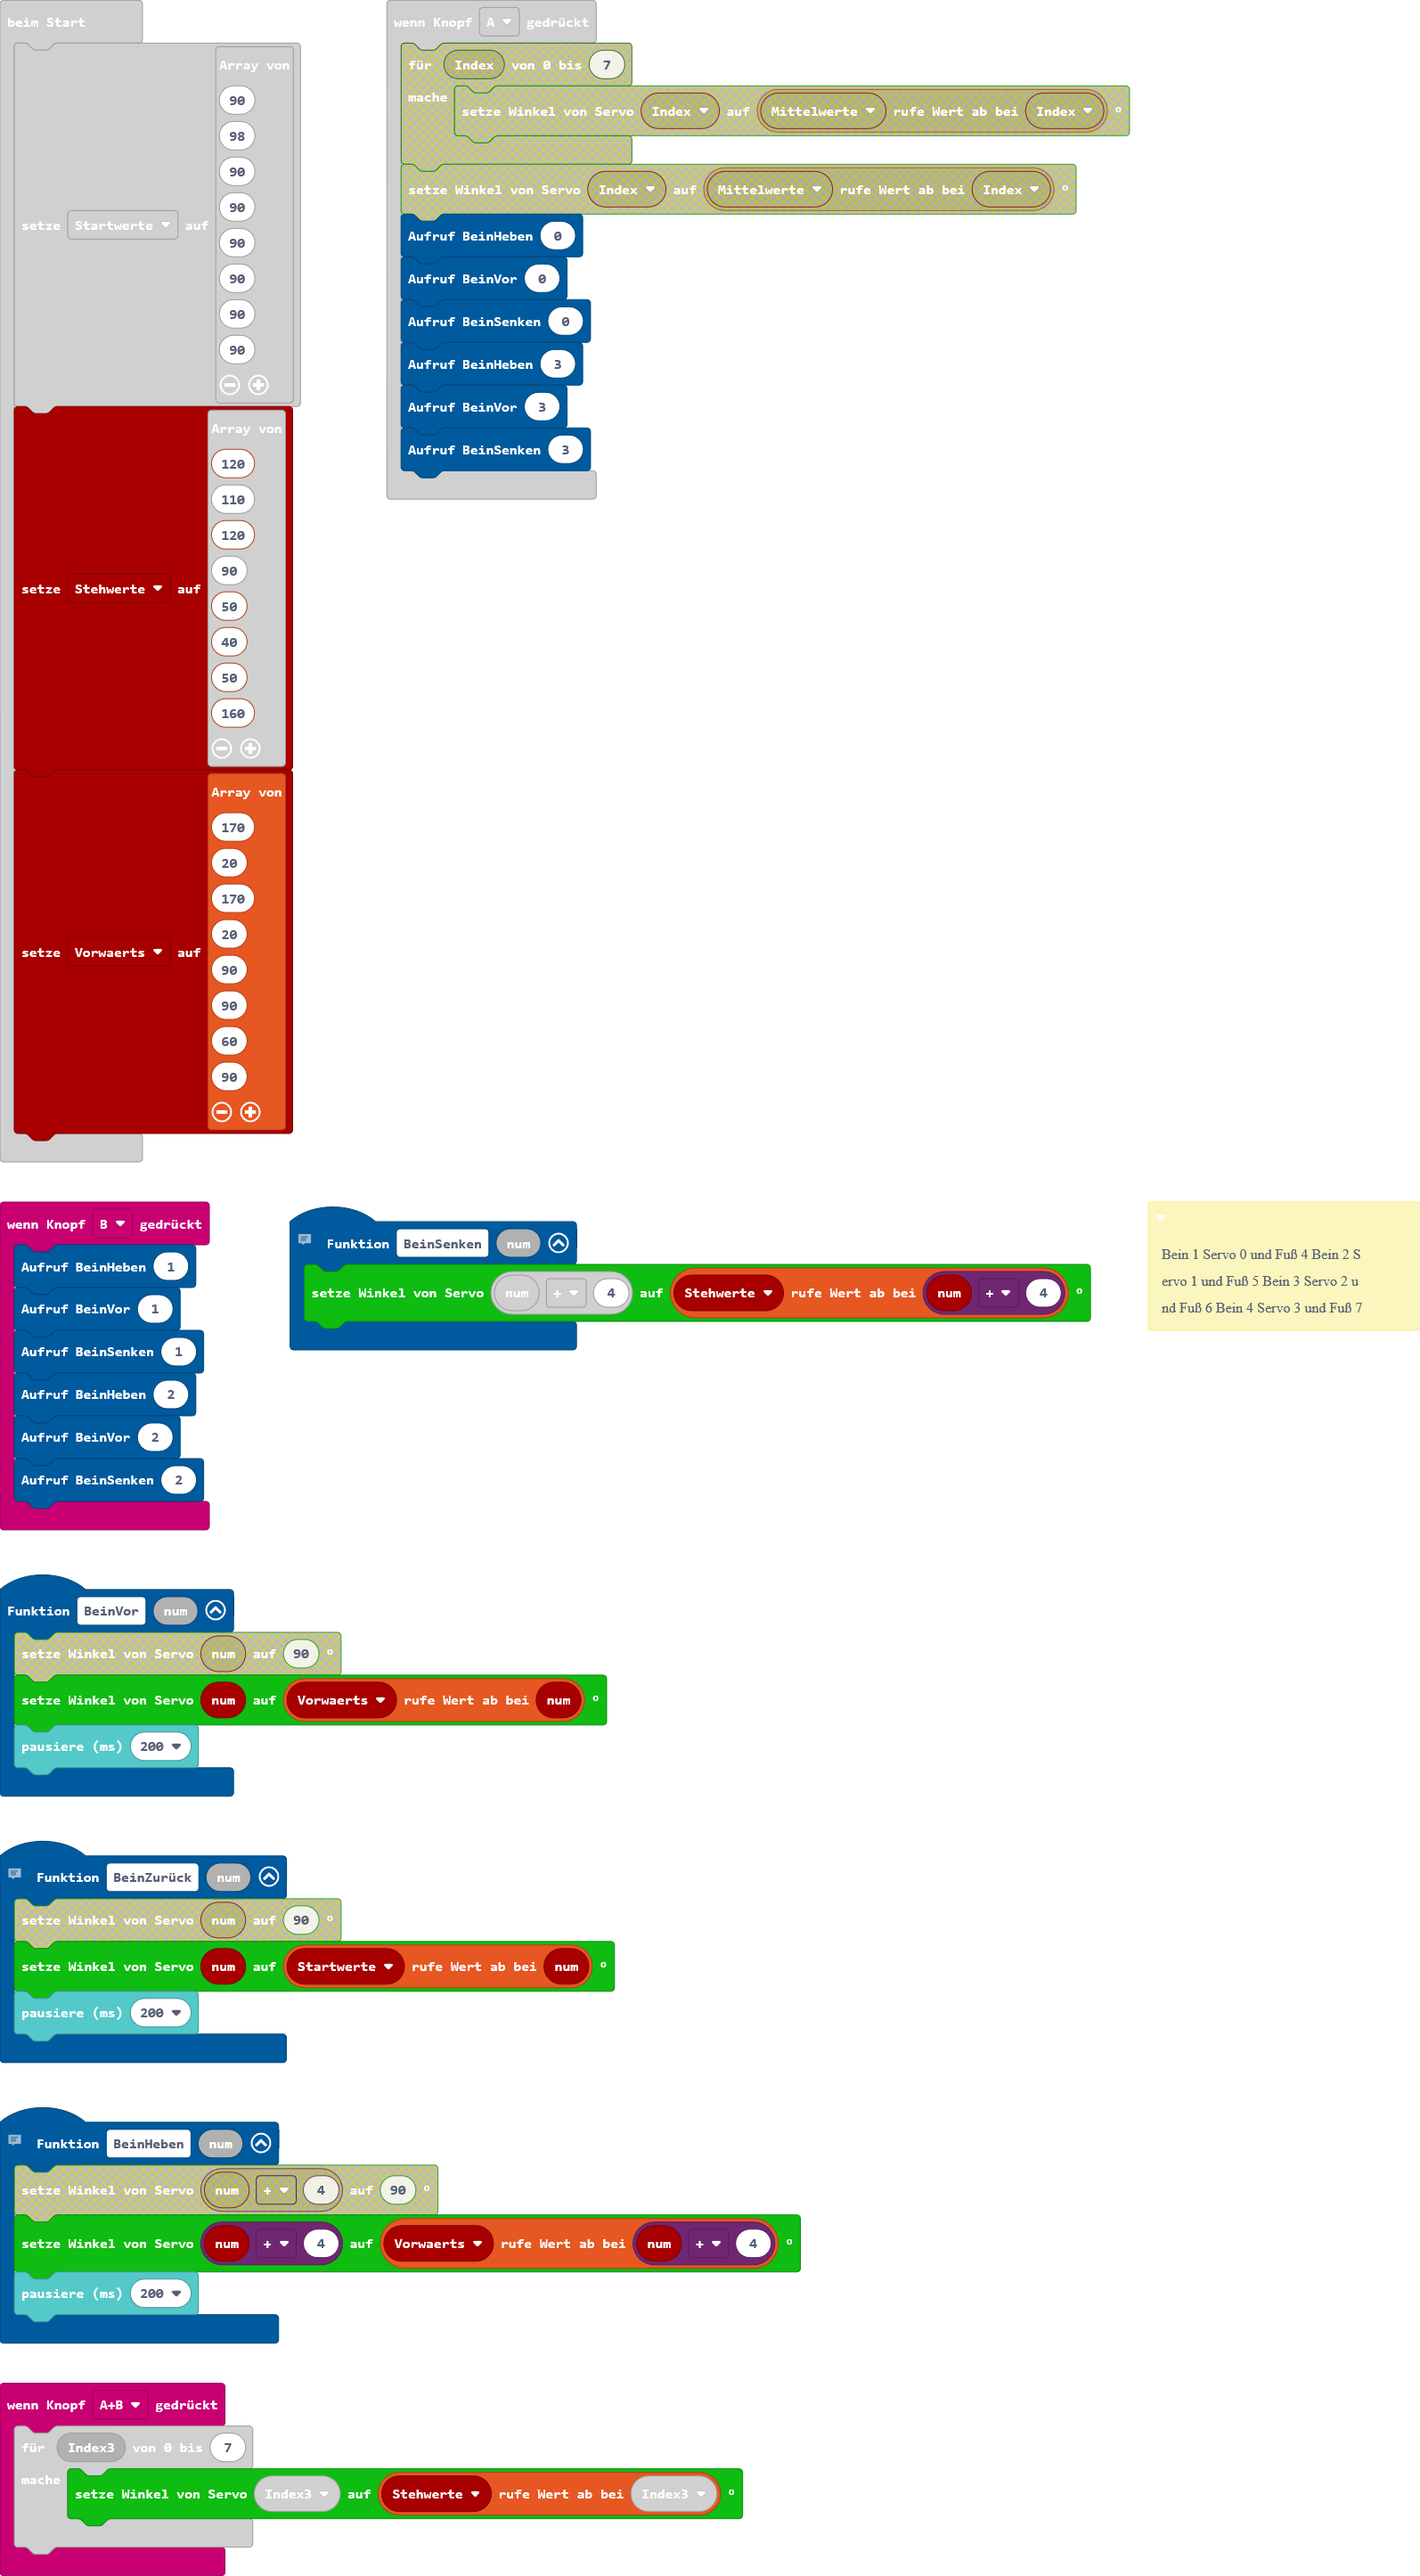
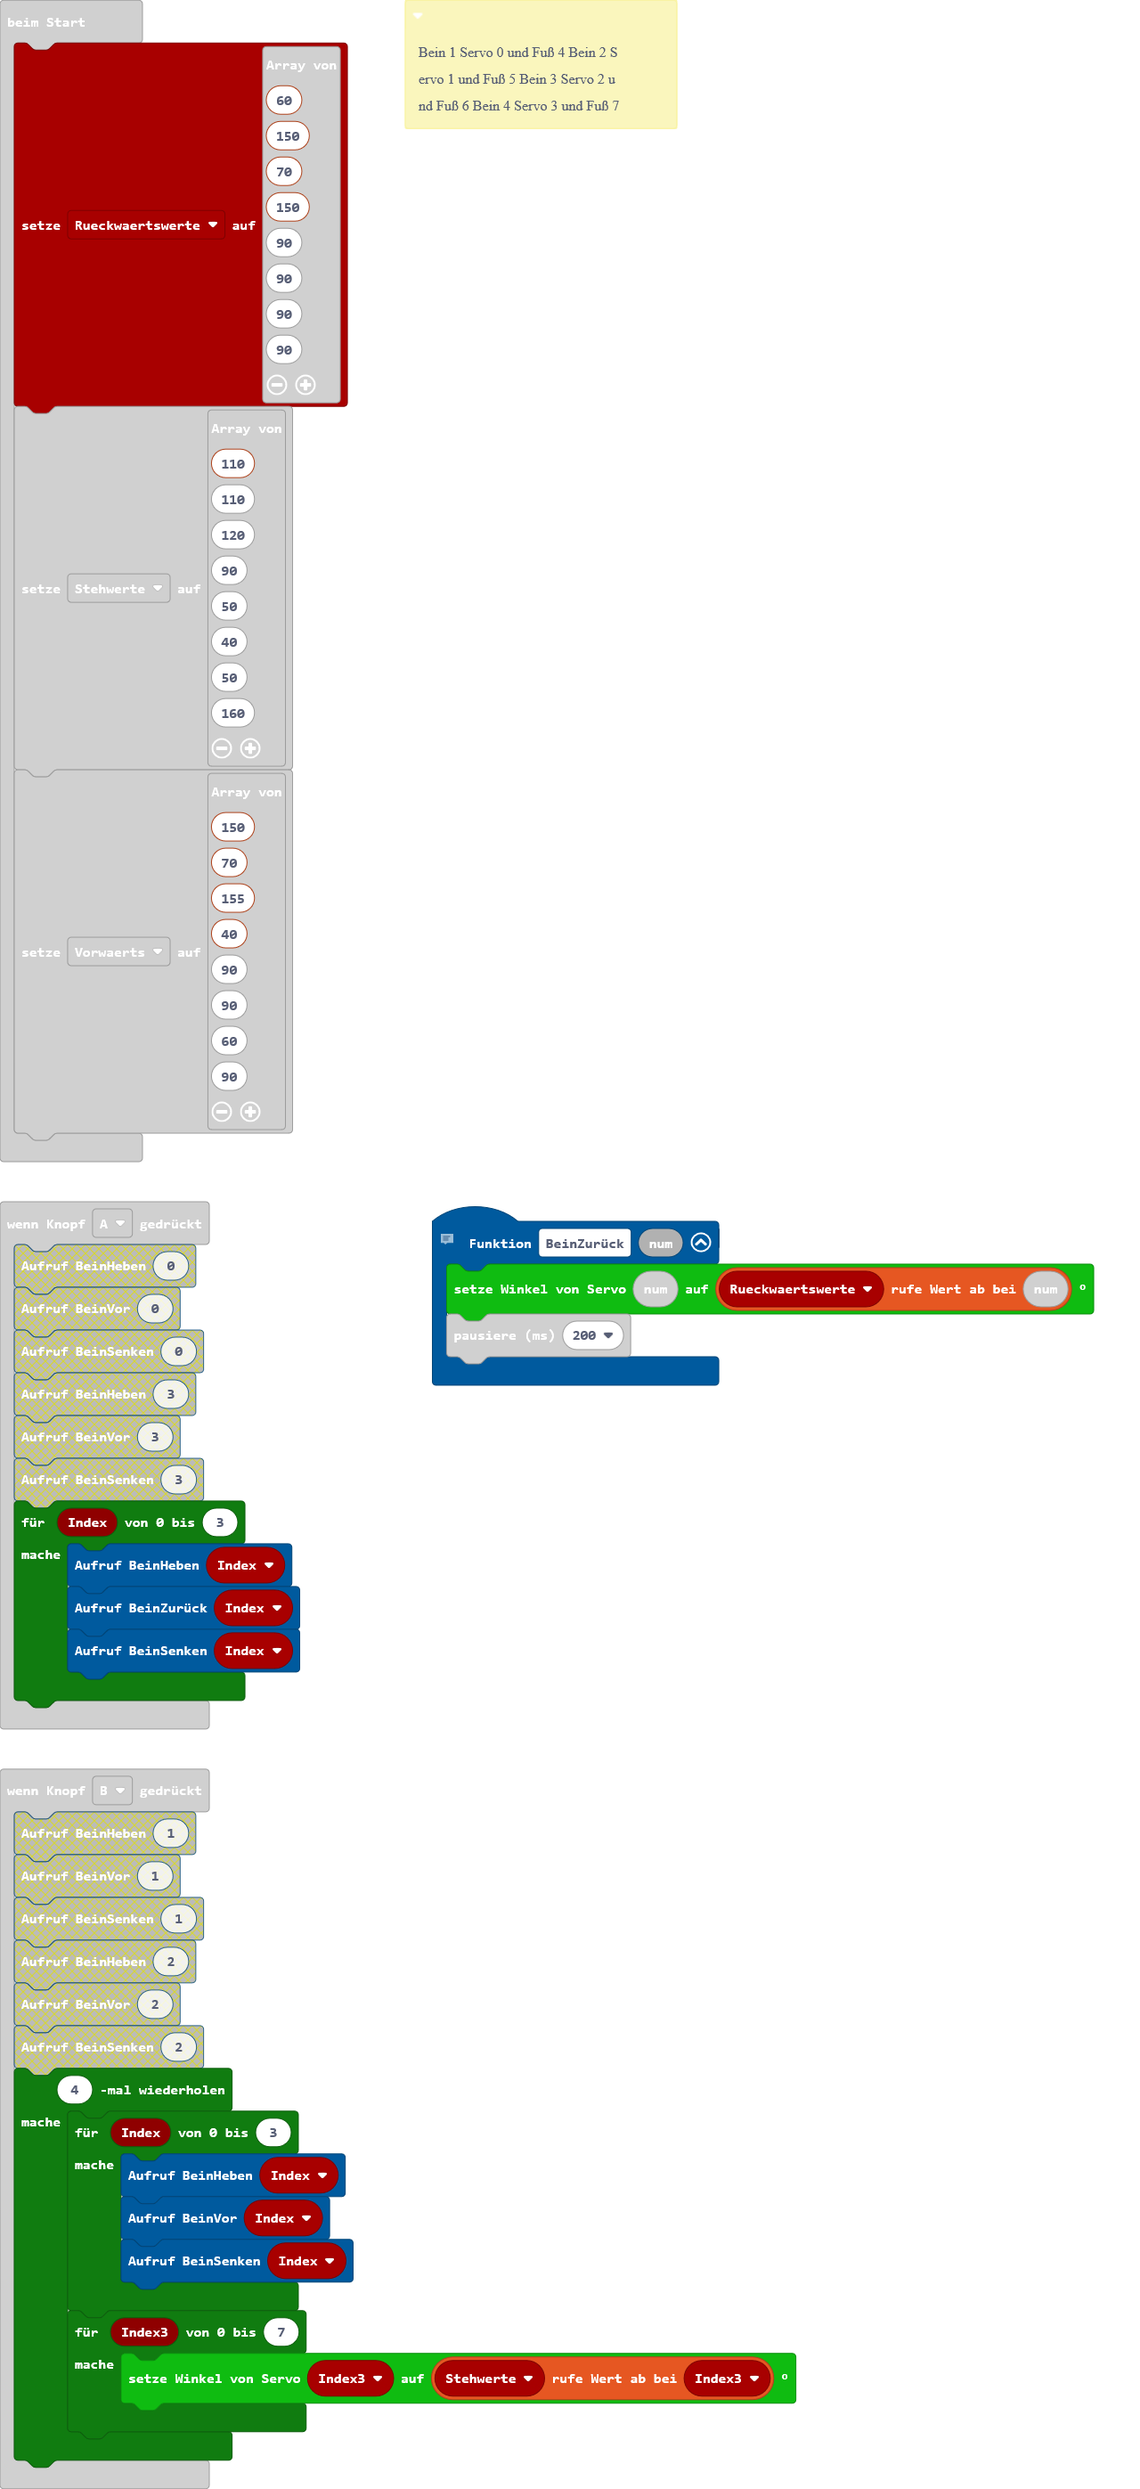
Vorwärts und rückwärts

diff --git a/main.ts b/main.ts
@@ -15,19 +15,6 @@ function BeinHeben (num: number) {
     Servo.Servonum(num + 4, Vorwaerts[num + 4])
     basic.pause(200)
 }
-input.onButtonPressed(Button.A, function () {
-    BeinHeben(0)
-    BeinVor(0)
-    BeinSenken(0)
-    BeinHeben(3)
-    BeinVor(3)
-    BeinSenken(3)
-})
-input.onButtonPressed(Button.AB, function () {
-    for (let Index3 = 0; Index3 <= 7; Index3++) {
-        Servo.Servonum(Index3, Stehwerte[Index3])
-    }
-})
 /**
  * Bein 1 Servo 0 und  Fuß 4
  * 
@@ -37,13 +24,29 @@ input.onButtonPressed(Button.AB, function () {
  * 
  * Bein 4 Servo 3 und Fuß 7
  */
+input.onButtonPressed(Button.A, function () {
+    for (let Index = 0; Index <= 3; Index++) {
+        BeinHeben(Index)
+        BeinZurück(Index)
+        BeinSenken(Index)
+    }
+})
+input.onButtonPressed(Button.AB, function () {
+    for (let Index3 = 0; Index3 <= 7; Index3++) {
+        Servo.Servonum(Index3, Stehwerte[Index3])
+    }
+})
 input.onButtonPressed(Button.B, function () {
-    BeinHeben(1)
-    BeinVor(1)
-    BeinSenken(1)
-    BeinHeben(2)
-    BeinVor(2)
-    BeinSenken(2)
+    for (let index = 0; index < 4; index++) {
+        for (let Index = 0; Index <= 3; Index++) {
+            BeinHeben(Index)
+            BeinVor(Index)
+            BeinSenken(Index)
+        }
+        for (let Index3 = 0; Index3 <= 7; Index3++) {
+            Servo.Servonum(Index3, Stehwerte[Index3])
+        }
+    }
 })
 // Bein 1 Servo 0 und 4
 // Bein 2 Servo 1 und 5
@@ -51,7 +54,7 @@ input.onButtonPressed(Button.B, function () {
 // Bein 4 Servo 3 und 7
 // Bein X Servo (x-1) und (x+3)
 function BeinZurück (num: number) {
-    Servo.Servonum(num, Startwerte[num])
+    Servo.Servonum(num, Rueckwaertswerte[num])
     basic.pause(200)
 }
 function BeinVor (num: number) {
@@ -60,7 +63,7 @@ function BeinVor (num: number) {
 }
 let Vorwaerts: number[] = []
 let Stehwerte: number[] = []
-let Startwerte: number[] = []
-Startwerte = [90, 98, 90, 90, 90, 90, 90, 90]
-Stehwerte = [120, 110, 120, 90, 50, 40, 50, 160]
-Vorwaerts = [170, 20, 170, 20, 90, 90, 60, 90]
+let Rueckwaertswerte: number[] = []
+Rueckwaertswerte = [60, 150, 70, 150, 90, 90, 90, 90]
+Stehwerte = [110, 110, 120, 90, 50, 40, 50, 160]
+Vorwaerts = [150, 70, 155, 40, 90, 90, 60, 90]
